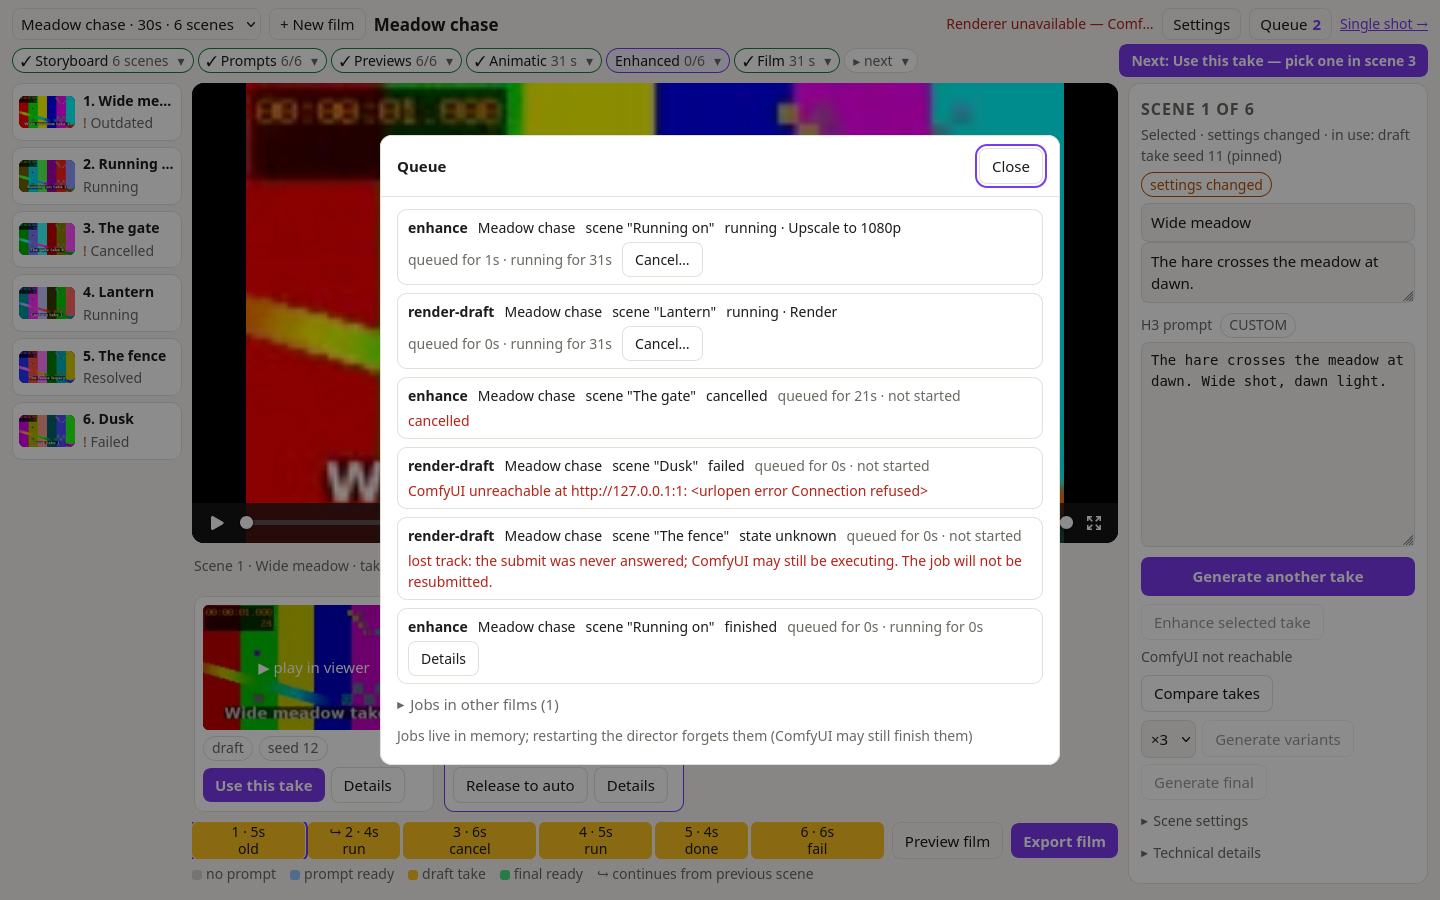
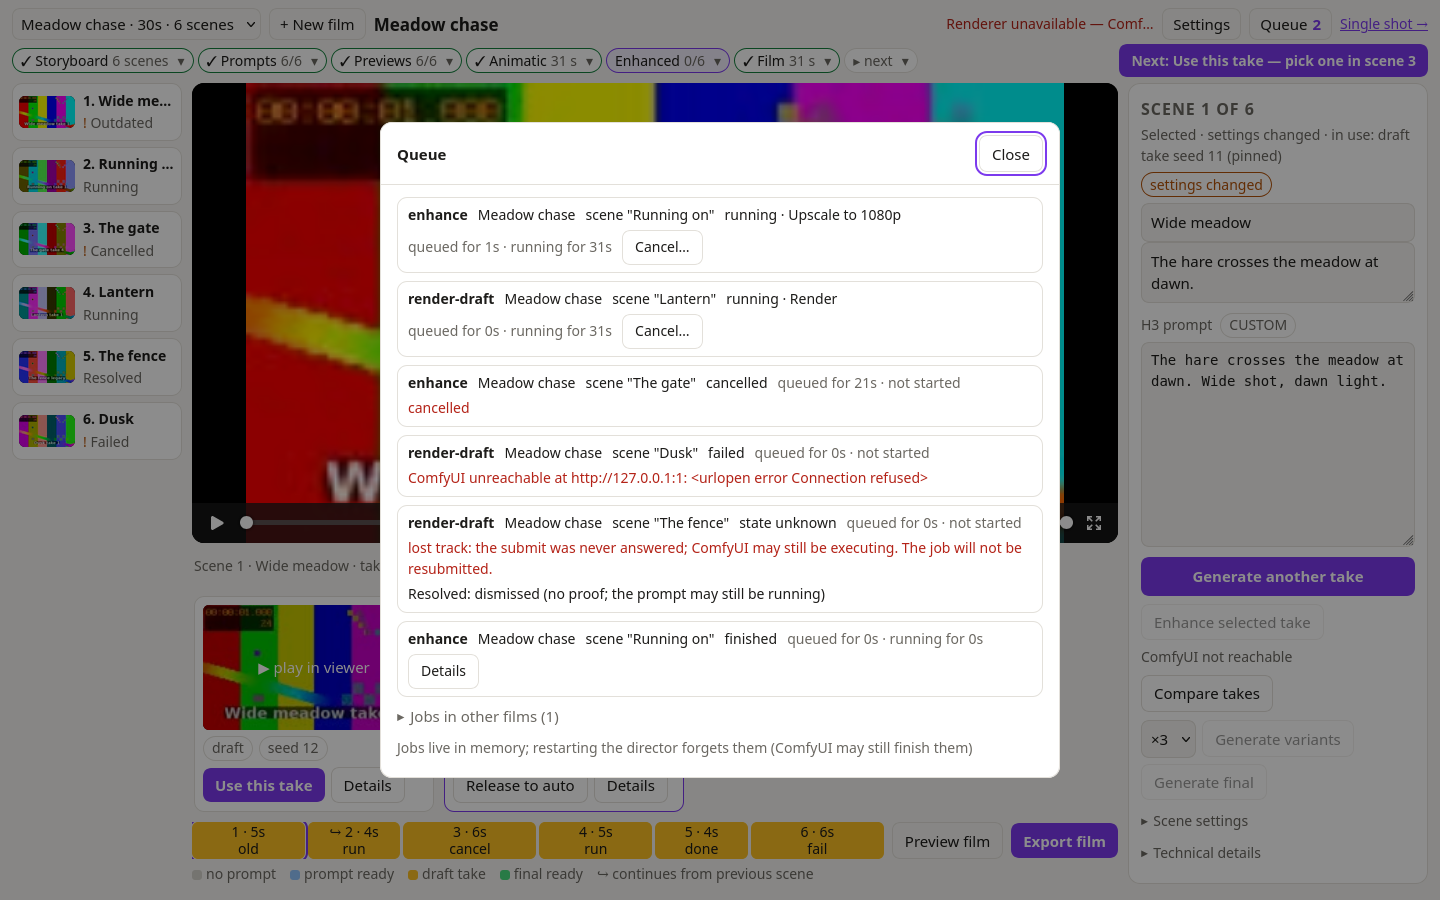
queue: say in words that a dismissed unknown job was resolved without proof

Changed region(s): [[0.25, 0.1244, 0.75, 0.8711]]

diff --git a/project.html b/project.html
@@ -1974,6 +1974,8 @@ function queueRow(r) {
   kids.push(el('span', {class: 'qstate'}, qword(r.state) + (r.stage ? ' · ' + r.stage : '')));
   kids.push(el('span', {class: 'qtime', 'data-times': JSON.stringify([r.created, r.started, r.ended])}));
   if (r.error) kids.push(el('span', {class: 'qerr'}, r.error));
+  if (r.resolved) kids.push(el('span', {class: 'qresolved'}, 'Resolved: ' + (r.resolved.verdict || 'dismissed') +
+    (r.resolved.verdict === 'dismissed' ? ' (no proof; the prompt may still be running)' : '')));
   if (r.state === 'unknown' && !r.resolved) {
     kids.push(el('span', {}, 'ComfyUI may still be executing' +
       (r.prompt_ids && r.prompt_ids.length ? ` (prompt ids ${r.prompt_ids.join(', ')})` : '')));
